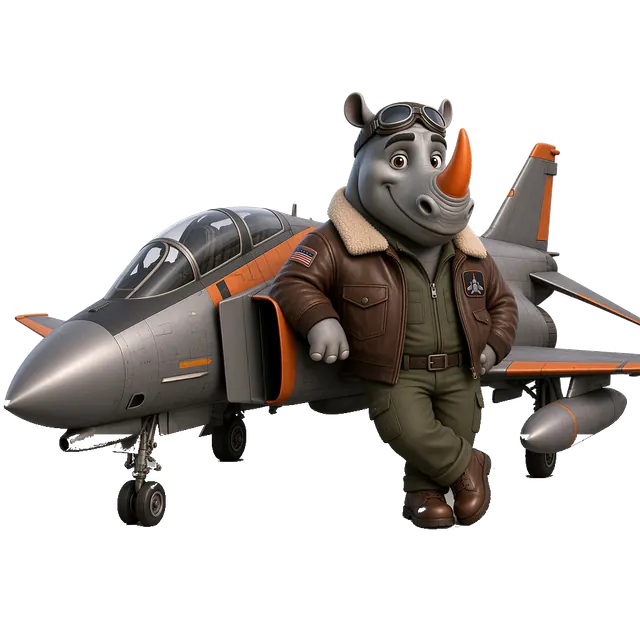
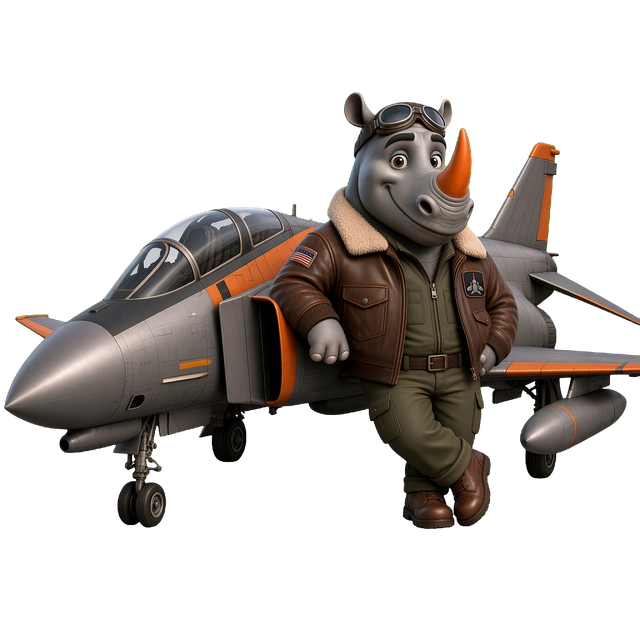
brand(rhino): use the keyed hero and drop the login glow
The stage webps are a lossless encode of the transparent render. The
koala lantern glow stayed off this panel because it sat under the jet.

diff --git a/packages/worker/universal/styles/style-primitives.ts b/packages/worker/universal/styles/style-primitives.ts
@@ -396,40 +396,6 @@ export function getAccentCalloutCss(options?: { accentColor?: string }) {
 	}
 }
 
-/**
- * The lantern Kody holds actually casts light. Screen blend adds warmth over
- * his paws without a background halo. Spread into the css object of the
- * positioned wrapper around the mascot illustration; `maxWidth` caps the glow
- * for the wrapper's rendered size.
- */
-export function getLanternGlowCss(options: { maxWidth: string }) {
-	return {
-		'&::after': {
-			content: '""',
-			position: 'absolute' as const,
-			left: '50%',
-			top: '63%',
-			width: `min(36%, ${options.maxWidth})`,
-			aspectRatio: '4 / 3',
-			transform: 'translate(-50%, -50%)',
-			borderRadius: '50%',
-			background:
-				'radial-gradient(closest-side, var(--lantern-glow), transparent 72%)',
-			mixBlendMode: 'screen' as const,
-			pointerEvents: 'none' as const,
-		},
-		'@media (prefers-reduced-motion: no-preference)': {
-			'&::after': {
-				animation: 'lantern-breathe 4.5s ease-in-out infinite alternate',
-			},
-		},
-		'@keyframes lantern-breathe': {
-			from: { opacity: 0.55 },
-			to: { opacity: 1 },
-		},
-	}
-}
-
 const markdownTableCss = {
 	'& [data-markdown-table]': {
 		margin: '1.15rem 0 0',

diff --git a/packages/worker/start/pages/login-sections.tsx b/packages/worker/start/pages/login-sections.tsx
@@ -22,7 +22,6 @@ import {
 	authFieldLabelRowCss,
 	getAuthInputCss,
 	getGhostButtonCss,
-	getLanternGlowCss,
 	getPillButtonCss,
 	getSwapLabelCss,
 	hoverMq,
@@ -398,7 +397,7 @@ const authSceneCss: CSSObject = {
 	width: '100%',
 }
 
-/* The lantern casts its light here too. */
+/* No lantern glow. The Rhino stage has no lantern, and the warm spot sat under the jet. */
 const authStageWrapCss: CSSObject = {
 	position: 'relative' as const,
 	width: 'min(100%, 440px)',
@@ -407,7 +406,6 @@ const authStageWrapCss: CSSObject = {
 	'@media (min-width: 901px) and (max-height: 820px)': {
 		width: 'min(100%, 340px)',
 	},
-	...getLanternGlowCss({ maxWidth: '160px' }),
 }
 
 const authGreetingCss: CSSObject = {

diff --git a/docs/contributing/rhino.md b/docs/contributing/rhino.md
@@ -32,7 +32,8 @@ purpose.
 | `packages/worker/start/components/site-header.tsx`                        | Header wordmark, in self-hosted Saira Stencil One.                                                                                                                                                    |
 | `packages/worker/start/components/site-footer.tsx`                        | Footer wordmark, in self-hosted Saira Stencil One.                                                                                                                                                    |
 | `packages/worker/start/components/workspace-layout.tsx`                   | Sidebar wordmark and home label, in Saira Stencil One.                                                                                                                                                |
-| `packages/worker/start/pages/login-sections.tsx`                          | Sign-in and sign-up brand label, in Saira Stencil One.                                                                                                                                                |
+| `packages/worker/start/pages/login-sections.tsx`                          | Sign-in wordmark is Saira Stencil One. The lantern glow stays off this stage.                                                                                                                         |
+| `packages/worker/universal/styles/style-primitives.ts`                    | Login lantern glow is removed. It sat under the Rhino jet.                                                                                                                                            |
 | `packages/worker/start/pages/login.tsx`                                   | "Back to Rhino" link.                                                                                                                                                                                 |
 | `packages/worker/start/pages/signup-choose-username.tsx`                  | "Back to Rhino" link.                                                                                                                                                                                 |
 | `packages/worker/start/components/brand-context-menu.tsx`                 | Brand menu name. Copied SVG uses the Rhino colors.                                                                                                                                                    |
